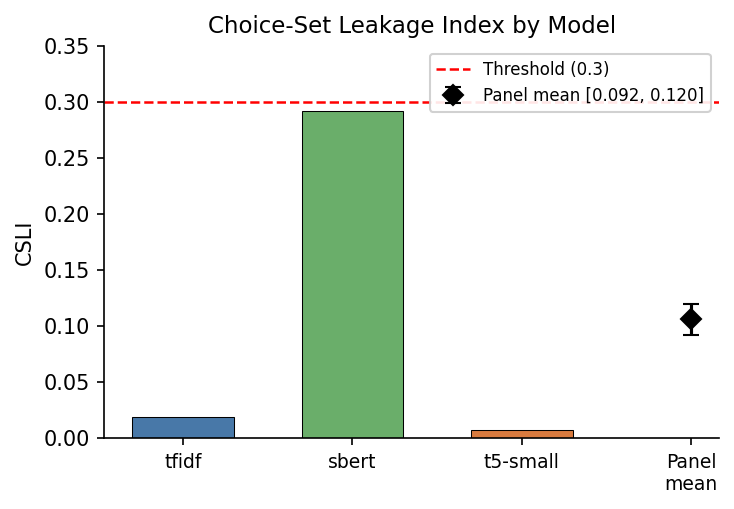
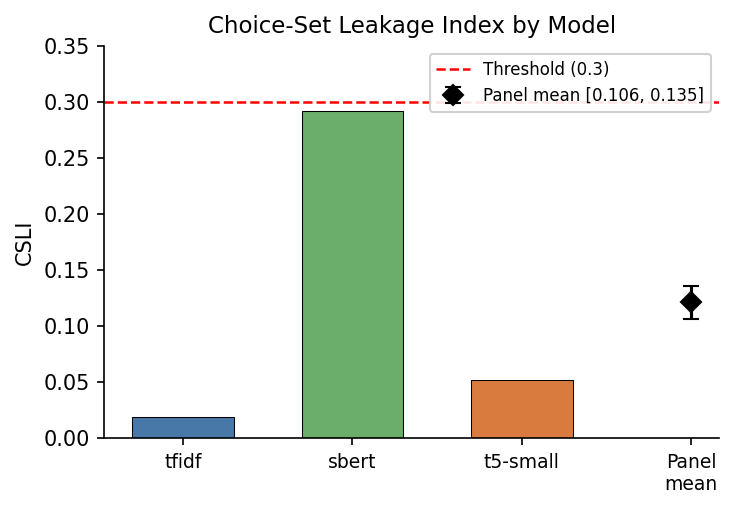
fix(02-PHASE2): regenerate paper_exports after iter1 fixes (csli + audit_card + figures)
Post-fix CSLI regeneration with --allow-incomplete-mc-coverage (74.4% MC
coverage of fresh test split; rebuilding mc_dataset.json deferred per IN-01
to avoid cascade-breaking compute_stopdff.py and compute_prefix_calibration.py
which still assume the wrapped test_dataset.json shape).

Numerical changes (vs csli.json @ 49efab4, before iter1 fixes):
- Panel CSLI:    0.1062 [0.0921, 0.1197] -> 0.1212 [0.1063, 0.1353] (+14% rel)
- T5-small CSLI: 0.0074 -> 0.0524 (~7x, WR-06 standardized scoring exposed signal)
- T5-small acc_choices_only: 0.234 -> 0.219 (WR-06 effect on choices-only path)
- TF-IDF and SBERT unchanged (fixes did not touch those scorers)
- Audit gate verdict UNCHANGED: PASS (panel still well below 0.30 threshold)
- StopDFF and calibration unchanged (no Phase 5/6 code modified)

New csli.json fields per WR-09 reconciliation:
- bootstrap_method: "percentile"
- bootstrap_note: explicit CI semantics
- panel_csli.mean_from_per_model_avg: diagnostic field reconciling
  per-question bootstrap center with per-model average

Backups of pre-fix artifacts not committed; git history at 49efab4
contains the same content via paper_exports/{csli,audit_card}.json.

diff --git a/paper_exports/audit_table.tex b/paper_exports/audit_table.tex
@@ -3,7 +3,7 @@
 \toprule
 Metric & Value (95\% CI) & Threshold & Verdict \\
 \midrule
-CSLI (panel mean) & 0.1062 [0.0921, 0.1197] & 0.30 & \textsc{pass} \\
+CSLI (panel mean) & 0.1212 [0.1063, 0.1353] & 0.30 & \textsc{pass} \\
 Calibration ECE (max bucket) & 0.0305 & 0.10 & \textsc{pass} \\
 StopDFF (median abs shift) & 0.0 & 1.0 & \textsc{pass} \\
 \bottomrule

diff --git a/paper_exports/audit_card.md b/paper_exports/audit_card.md
@@ -2,7 +2,7 @@
 
 | Metric | Value | Threshold | Verdict |
 |--------|-------|-----------|---------|
-| CSLI (Choice-Set Leakage Index) | 0.1062 [0.0921, 0.1197] | 0.3 | PASS |
+| CSLI (Choice-Set Leakage Index) | 0.1212 [0.1063, 0.1353] | 0.3 | PASS |
 | Prefix-wise Calibration (ECE) | 0.0305 | 0.1 | PASS |
 | Diagnostic StopDFF (Median Abs Prefix Shift) | 0.0 | 1.0 | PASS |
 
@@ -10,6 +10,6 @@
 
 ---
 
-*Generated by `make_audit_card.py` v1.0.0 at 2026-05-26 09:30:03 UTC*
+*Generated by `make_audit_card.py` v1.0.0 at 2026-05-26 18:07:46 UTC*
 
 All thresholds pre-registered in `threshold_manifest.json` and frozen before test-set inspection.
